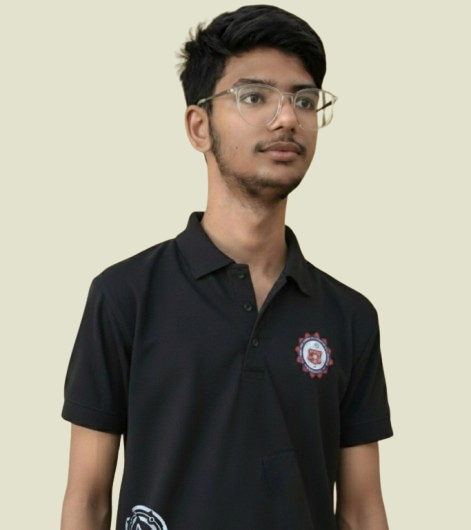
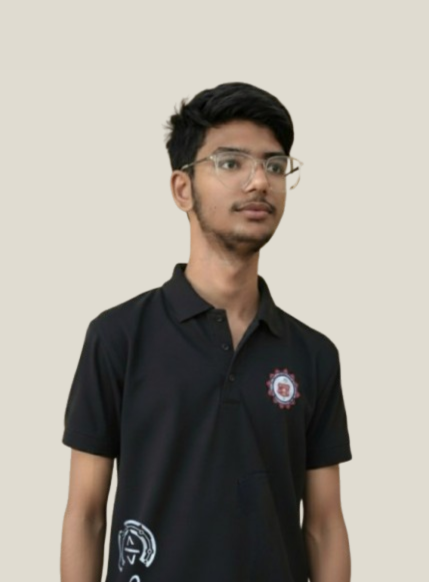
teams

diff --git a/components/Team.tsx b/components/Team.tsx
@@ -7,28 +7,28 @@ const teamMembers = [
   {
     name: 'Tanishak Tyagi',
     role: 'Society Head',
-    image: '../public/tanish.jpg',
+    image: '/tanish.jpg',
     linkedin: 'https://www.linkedin.com/in/tanishak-tyagi-744501319/',
 
   },
   {
     name: 'Aman',
     role: 'Society Head',
-    image: '../public/aman.jpg',
+    image: '/aman.jpg',
     linkedin: 'https://www.linkedin.com/in/aman-kumar-pal-79b40826b/',
-    
+
   },
   {
     name: 'Manushwi',
     role: 'Technical Lead',
-    image: '../public/manushwi.png',
+    image: '/manushwi.png',
     linkedin: 'https://www.linkedin.com/in/manushwi-raj-bhardwaj/',
 
   },
   {
     name: 'Bhavya',
     role: 'Marketing Lead',
-    image: '../public/bhavya.jpg',
+    image: '/bhavya.jpg',
     linkedin: 'https://www.linkedin.com/in/bhavya-yadav-841a3b379/',
 
   },

diff --git a/App.tsx b/App.tsx
@@ -65,7 +65,7 @@ const App: React.FC = () => {
         <About />
         <Round />
         <Timeline />
-        {/* <Team /> */}
+        <Team />
         <RegistrationForm />
       </main>
       <Footer />
